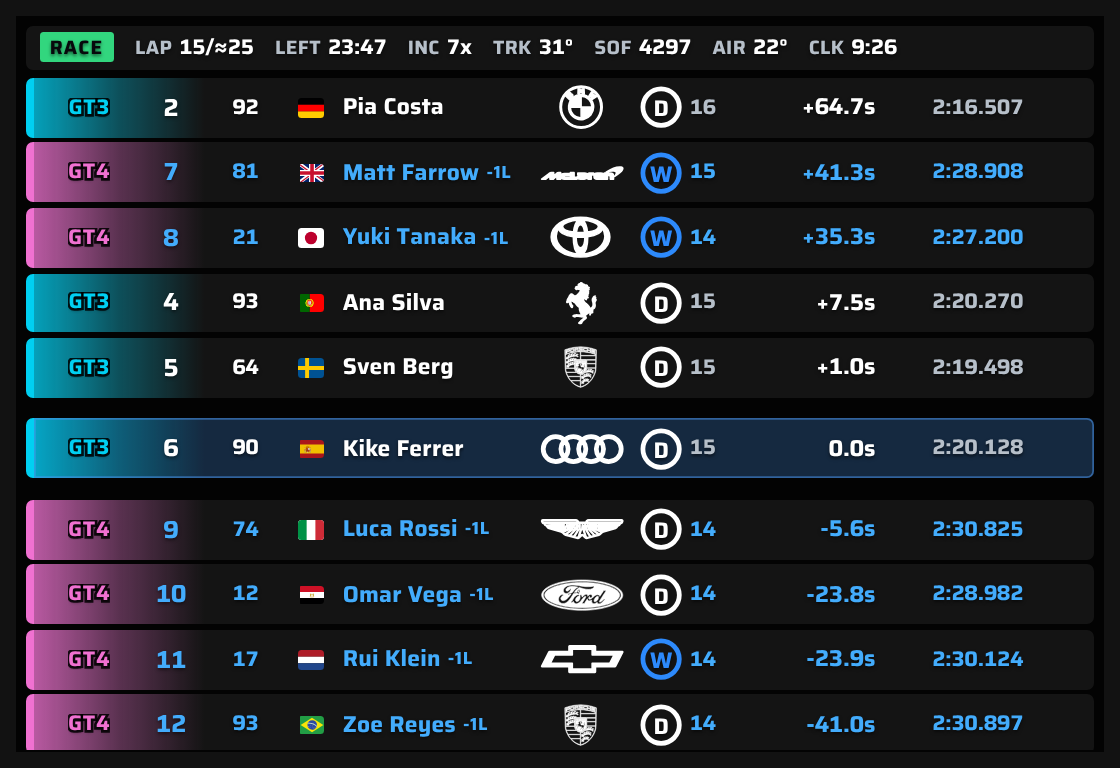
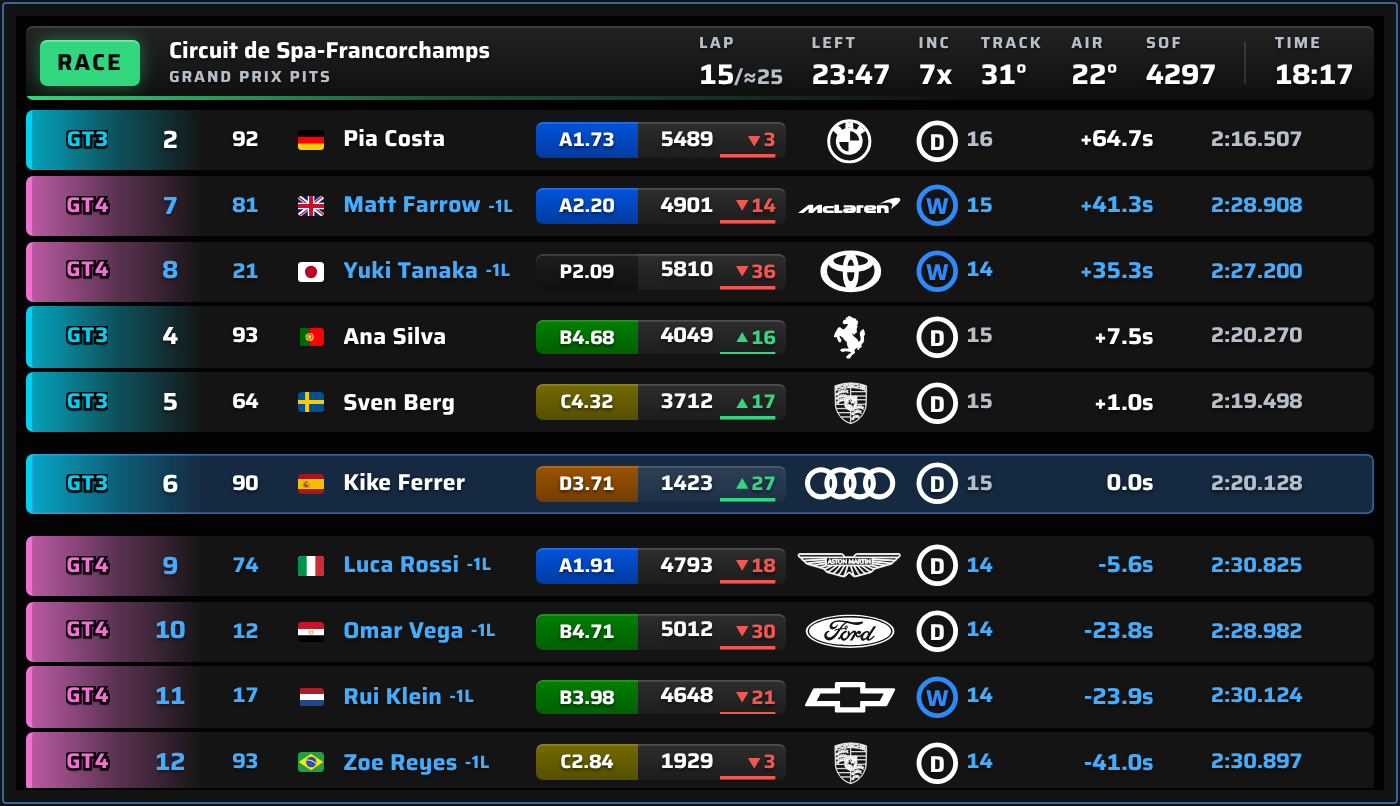
docs(site): re-shoot the timing captures for the session header and Relative ratings
standings, standings-compact and relative re-shot with `site/capture.mjs` on
the mock feed. Frames re-measured: standings 1180x444 (width-limited from
442, up from 428 for the 42 px header), standings-compact 620x263
(width-limited from 262), and relative widened from 560 to 700 at 403 tall,
so the table keeps the ~0.89 scale it drew at before licence and iRating
joined the row.

Image dimensions, alt text and copy follow: the alts describe the session
header and, on the relative, the licence / iRating pill; the Relative band
and copy mention ratings; the legend table is "Session header" with a
CIRCUIT row (17 fields). og:image:height corrected to the real 888.

Claude-Session: https://claude.ai/code/session_012s7iAZvBDVRnjFDZCTUtdT

diff --git a/site/index.html b/site/index.html
@@ -27,7 +27,7 @@
     />
     <meta property="og:image" content="https://telemetrylab.app/assets/standings.png" />
     <meta property="og:image:width" content="2360" />
-    <meta property="og:image:height" content="1024" />
+    <meta property="og:image:height" content="888" />
     <meta
       property="og:image:alt"
       content="The TelemetryLab standings overlay showing two class groups, GT3 and GT4, with gaps and lap times."
@@ -326,11 +326,12 @@
             <img
               src="assets/standings-compact.png"
               width="1240"
-              height="512"
+              height="526"
               alt="The standings overlay in a narrow window, drawn small enough that
-                   every column still fits: a session strip reading lap, time left,
-                   incidents, track and air temperature, strength of field and the
-                   clock, then a GT3 class header with strength of field, car count
+                   every column still fits: a session header of its own — a green
+                   RACE tag, the track, then lap, time left, incidents, track and
+                   air temperature, strength of field and the clock, each a small
+                   label over a large value — then a GT3 class header with strength of field, car count
                    and fastest lap over six driver rows, and the top three of the GT4
                    group below it. Each row is a dark strip whose class colour runs
                    from its left edge and fades out behind the position, carrying
@@ -375,10 +376,12 @@
             <img
               src="assets/standings.png"
               width="2360"
-              height="856"
+              height="888"
               loading="lazy"
               alt="The standings overlay showing two class groups: all six GT3 cars
-                   and the top three GT4 cars. Each group opens with a header strip
+                   and the top three GT4 cars, under a session header naming the
+                   session, the track and its layout, with the lap, time left,
+                   incidents, temperatures, strength of field and clock. Each group opens with a header strip
                    carrying strength of field, car count and fastest lap, followed by
                    rows — each a dark strip whose class colour fades from its left
                    edge to the position — carrying
@@ -386,7 +389,8 @@
                    combined licence and iRating pill — the licence in its own colour,
                    blue A, red R, green B, gold C, orange D and black P — gap,
                    interval, last lap, best lap, tyre and three sector columns — two of the GT4 cars are on
-                   wets, shown by a blue W. Each class leader's row reads GAP and INT
+                   wets, shown by a blue W. The car brands are drawn as their own
+                   marks in white, McLaren's and Aston Martin's lettering included. Each class leader's row reads GAP and INT
                    where it has no gap to show."
             />
           </figure>
@@ -397,6 +401,7 @@
             <span class="band__chip">Relative</span>
             <span class="band__field"><span class="band__k">SORT</span><b class="band__v">track order</b></span>
             <span class="band__field"><span class="band__k">GAP</span><b class="band__v">signed</b></span>
+            <span class="band__field"><span class="band__k">iRATING</span><b class="band__v">live Δ</b></span>
             <span class="band__field"><span class="band__k">TYRES</span><b class="band__v">D · W</b></span>
           </div>
           <div class="row__copy">
@@ -407,25 +412,29 @@
               signed and live. Cars you are lapping turn blue, every car from
               another class carries its class badge, and the only highlighted row
               is yours. A closing indicator fires when a faster car is catching
-              you, and turns red when that car is from another class. And every
-              car shows its tyres — a white D for dries, a blue W for wets — with
-              the laps on the set, so you see who has gone to wets the moment the
-              rain comes.
+              you, and turns red when that car is from another class. Every car
+              carries its licence and iRating, with the projected change, so you
+              know who you are racing as well as where. And every car shows its
+              tyres — a white D for dries, a blue W for wets — with the laps on
+              the set, so you see who has gone to wets the moment the rain comes.
             </p>
           </div>
           <figure class="shot">
             <img
               src="assets/relative.png"
-              width="1120"
-              height="768"
+              width="1400"
+              height="806"
               loading="lazy"
-              alt="The relative overlay in a two-class race: cars ahead and behind
+              alt="The relative overlay in a two-class race, under the same session
+                   header as the standings: cars ahead and behind
                    the player sorted by on-track time, each row a dark strip opening
                    on a fade of its class colour, with its GT3 or GT4 class name
                    lettered in that colour. GT3 cars on the
                    player's lap are written in white; GT4 cars a lap down on the
                    player, both ahead and behind, are written in blue with a
-                   minus-one-lap tag. Every row shows its tyres: a white D in a circle
+                   minus-one-lap tag. Every row carries the driver's licence and
+                   iRating as one pill — the licence in its own colour, the rating
+                   with its projected change, a green ▲ or red ▼ — and its tyres: a white D in a circle
                    for dries or a blue W for wets, then the laps on the set — three of
                    the GT4 cars are on wets. The player's own row is the only
                    highlighted one, outlined and set apart by a gap above and below."
@@ -509,7 +518,7 @@
         <section id="spec" class="spec">
           <div class="band">
             <span class="band__chip">Legend</span>
-            <span class="band__field"><span class="band__k">FIELDS</span><b class="band__v">16</b></span>
+            <span class="band__field"><span class="band__k">FIELDS</span><b class="band__v">17</b></span>
             <span class="band__field"><span class="band__k">TABLES</span><b class="band__v">2</b></span>
           </div>
           <div class="spec__intro">
@@ -595,7 +604,7 @@
           <div class="spec__scroll spec__scroll--stacked">
             <table class="tnum">
               <caption class="micro spec__cap">
-                Session strip
+                Session header
               </caption>
               <thead>
                 <tr>
@@ -613,6 +622,11 @@
                     <span class="sw sw--warn">yellow</span> ·
                     <span class="sw sw--bad">red</span>
                   </td>
+                </tr>
+                <tr>
+                  <th scope="row">CIRCUIT</th>
+                  <td>The circuit and its layout — the first field to go when the overlay narrows</td>
+                  <td>—</td>
                 </tr>
                 <tr>
                   <th scope="row">LAP</th>
@@ -633,7 +647,7 @@
                   </td>
                 </tr>
                 <tr>
-                  <th scope="row">TRK · AIR</th>
+                  <th scope="row">TRACK · AIR</th>
                   <td>Track and air temperature</td>
                   <td>—</td>
                 </tr>
@@ -643,7 +657,7 @@
                   <td>—</td>
                 </tr>
                 <tr>
-                  <th scope="row">CLK</th>
+                  <th scope="row">TIME</th>
                   <td>Local time, for when the stint has stopped meaning anything</td>
                   <td>—</td>
                 </tr>
